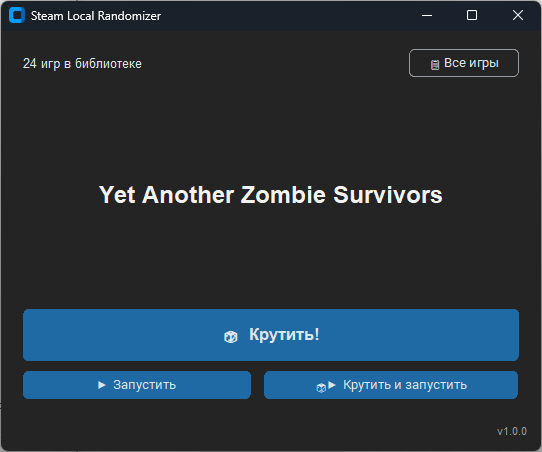
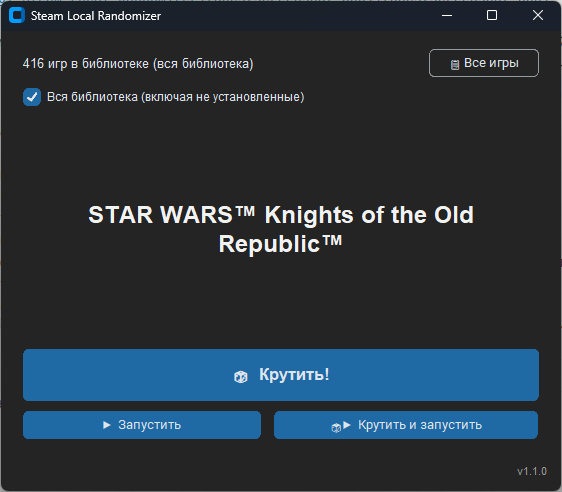
fix README.md

diff --git a/README.md b/README.md
@@ -12,8 +12,6 @@
 сканирует **все** ваши библиотеки и выбирает игру за вас. Никаких Steam API-ключей,
 аккаунтов и регистрации — всё работает локально.
 
-![Скриншот Steam Local Randomizer](docs/screenshot.png)
-
 ## ✨ Возможности
 
 - 🔍 Автоматически находит установленный Steam.
